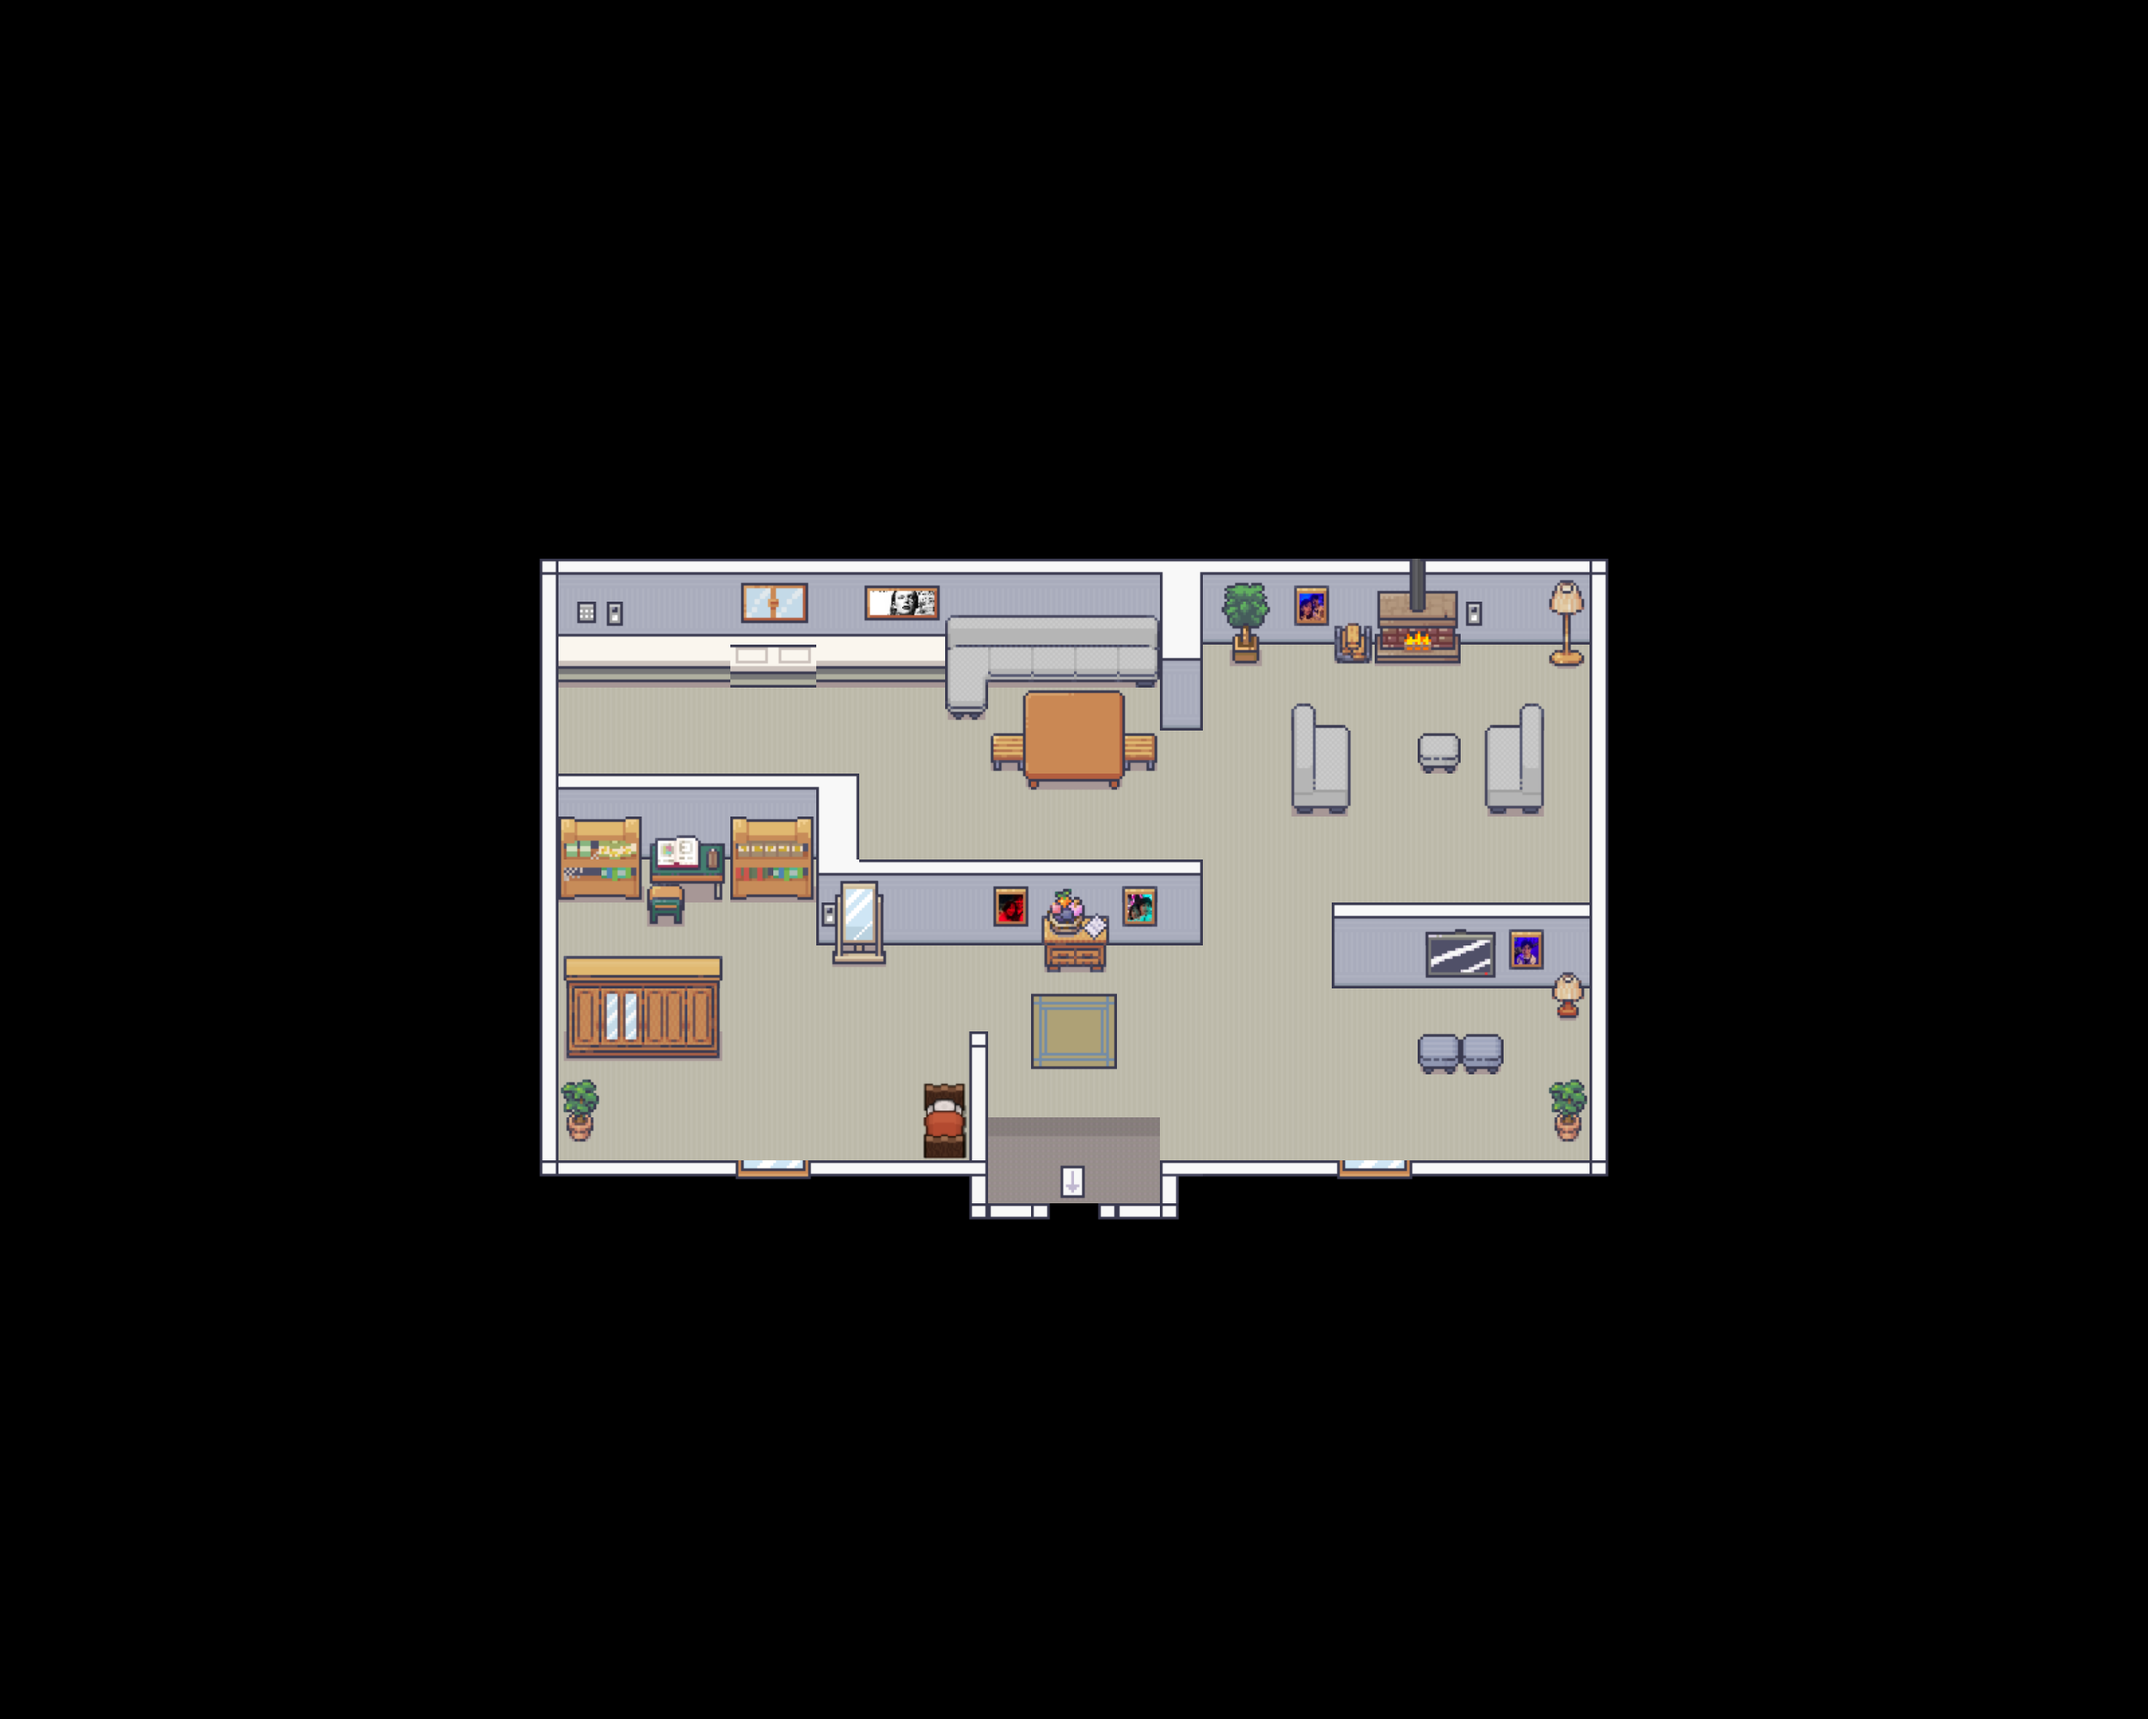
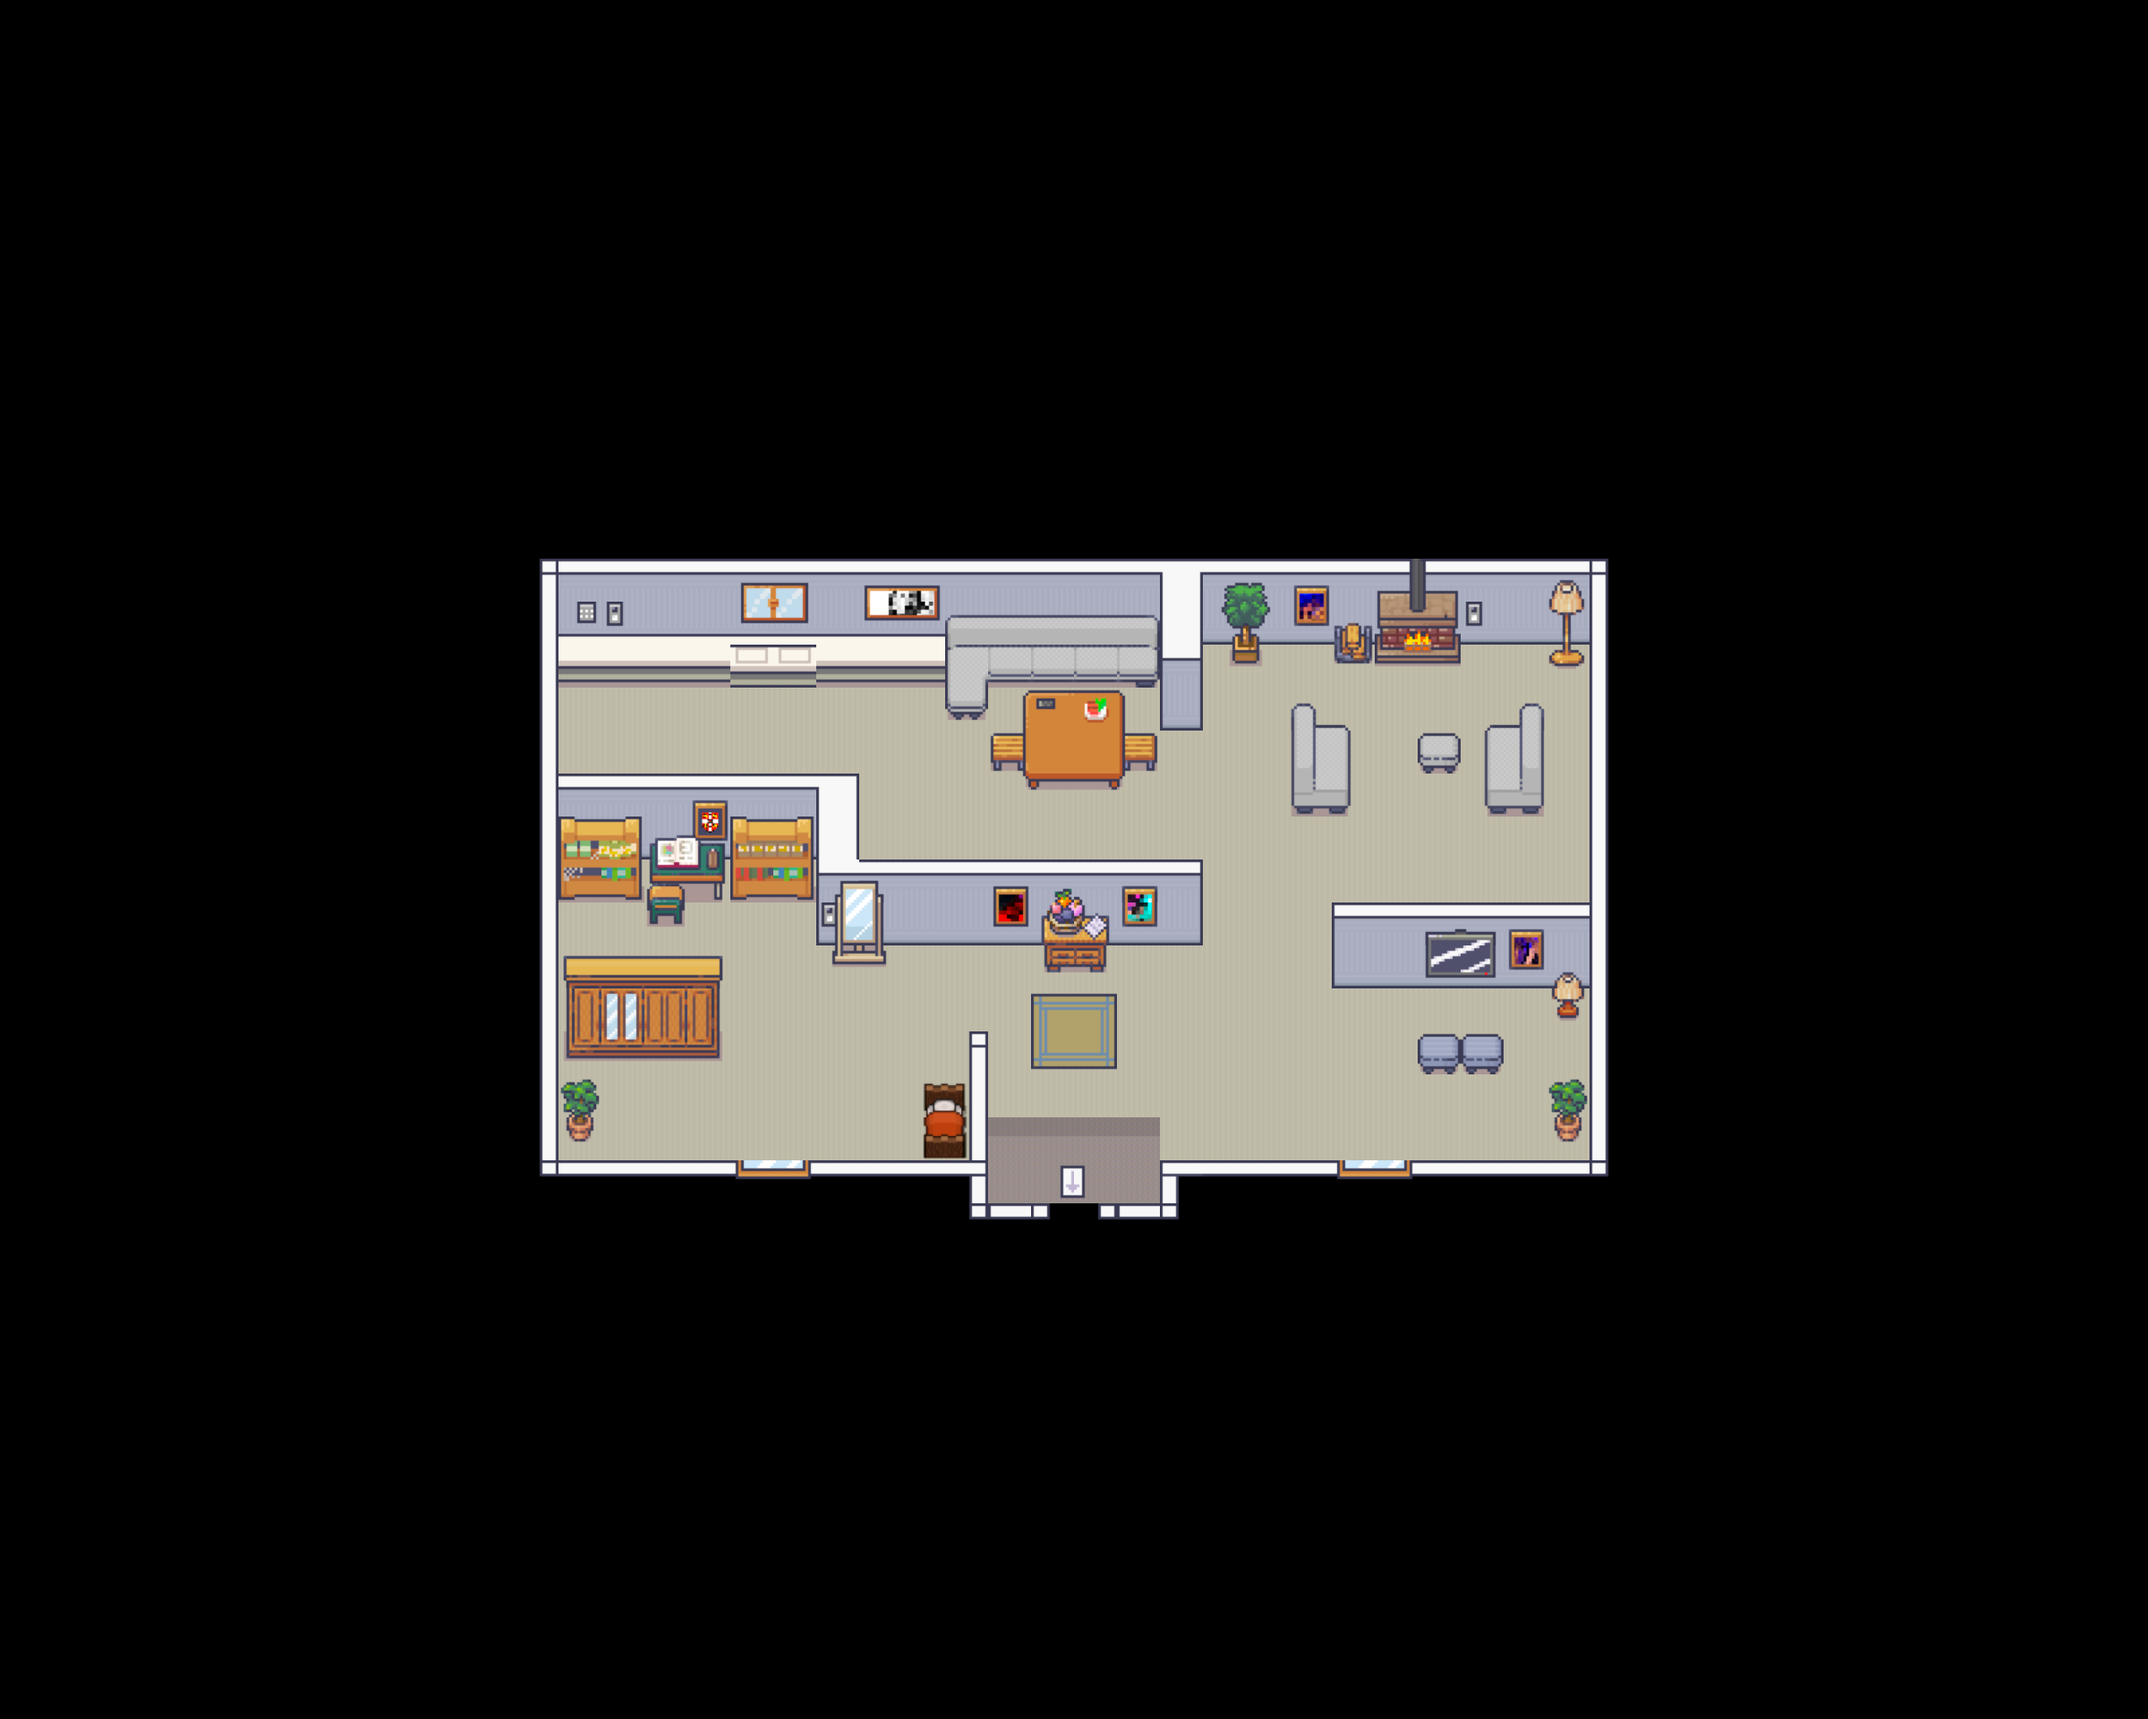
image interaction

diff --git a/index.js b/index.js
@@ -296,12 +296,36 @@ const mailbox = new descriptiveObject({position: {
     y: 15 * 48 + offset.out.y 
 }, width: 30, height: 2, text: "S + L <br>\u2665"})
 
-const picture = new descriptiveObjectInside({
+const picture1 = new descriptiveObjectInside({
         position: {
             x: 26 * 48 +offset.in.x -3,
             y: 21 * 48 + offset.in.y +2
         }, width: 31, height: 1, source: './img/art.png'
      
+})
+
+const picture2 = new descriptiveObjectInside({
+    position: {
+        x: 23 * 48 +offset.in.x -3,
+        y: 21 * 48 + offset.in.y +2
+    }, width: 31, height: 1, source: './img/art2.png'
+ 
+})
+
+const picture3 = new descriptiveObjectInside({
+    position: {
+        x: 35 * 48 +offset.in.x -3,
+        y: 22 * 48 + offset.in.y +2
+    }, width: 31, height: 1, source: './img/art3.png'
+ 
+})
+
+const picture4 = new descriptiveObjectInside({
+    position: {
+        x: 30 * 48 +offset.in.x -3,
+        y: 14 * 48 + offset.in.y +2
+    }, width: 31, height: 1, source: './img/art4.png'
+ 
 })
 const keys = {
     ArrowUp: {
@@ -343,7 +367,7 @@ const doorToOutside = new Boundary({position: {
     
 }, width: 40, height: 40})
 const objects = [testBoundary, sign, mailbox]
-const insideObjects = [picture]
+const insideObjects = [picture1, picture2, picture3, picture4]
 const movables = [background, ...boundaries, foreground, poke, ...oceans, insideBackground, ...indoorBoundaries, door, doorToOutside, openingDoor,...objects, doorBoundary, insideForeground, ...insideObjects]
 function rectangularCollision ({rectangle1, rectangle2}){
     return (
@@ -812,6 +836,7 @@ class insideMap {
             document.querySelector('#textDiv').style.display = 'none';
             document.querySelector('#dialogueBox').innerHTML = "";
             document.querySelector('#largeBackground').style.display = 'none';
+            document.querySelector('#pixeledImage').src = '';
         }
 
     }

diff --git a/descriptiveObject.js b/descriptiveObject.js
@@ -28,6 +28,6 @@ class descriptiveObjectInside extends descriptiveObject {
         const img = document.querySelector('#pixeledImage')
         img.src = this.source 
         document.querySelector('#largeBackground').style.display = 'block';
-
     }
+    
 }
